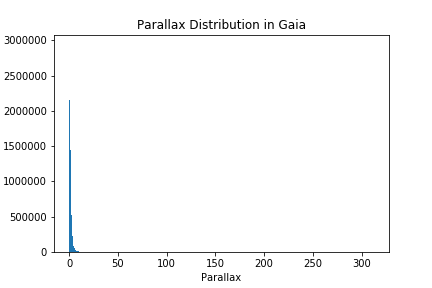
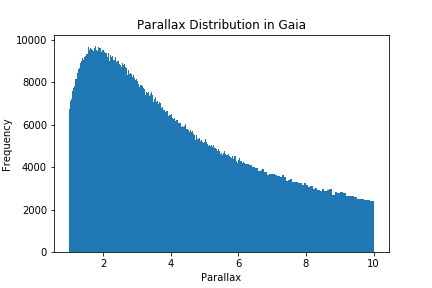
fixed the issue of bins size being one point more than the histogram by plotting the centralized bin point

diff --git a/Code/selection/parallax selection function/parallax selection function.py b/Code/selection/parallax selection function/parallax selection function.py
@@ -6,10 +6,10 @@ from astropy.table import Table
 data_g = Table.read("gaia_data_with_straight_cutoff.fits")
 data_rv = Table.read("gaia_rv_with_straight_cutoff.fits")
 
-# get rid of stars with negative parallax
-mask_g = np.all(np.array([data_g["parallax"]>0, 1/data_g["parallax"]<30]),axis = 0)
+# get rid of stars with negative parallax and stars further than 1 kpc
+mask_g = np.all(np.array([data_g["parallax"]>0, 1/data_g["parallax"]<1]),axis = 0)
 data_g = data_g[mask_g]
-mask_rv = np.all(np.array([data_rv["parallax"]>0, 1/data_rv["parallax"]<30]),axis = 0)
+mask_rv = np.all(np.array([data_rv["parallax"]>0, 1/data_rv["parallax"]<1]),axis = 0)
 data_rv = data_rv[mask_rv]
 
 # get parallax
@@ -17,11 +17,11 @@ parallax_g = data_g["parallax"]
 parallax_rv = data_rv["parallax"]
 
 #set up min and max
-parallax_min = min(np.min(parallax_g), np.min(parallax_rv))
-parallax_max = min(max(np.max(parallax_g), np.max(parallax_rv)),10)
-#set up a list of even bins of 0.01 kpc in distance space, convert to uneven
+parallax_min = 1
+parallax_max = 10
+#set up a list of even bins of 0.001 kpc in distance space, convert to uneven
 #parralax bins
-distance_pixel = 0.01
+distance_pixel = 0.001
 bins = np.flip(1/np.arange(1/parallax_max,1/parallax_min + distance_pixel, distance_pixel), axis =0)
 
 #plot rv paralax distribution
@@ -44,8 +44,15 @@ plt.savefig("Parallax Distribution in Gaia.png")
 
 #plot ratio
 plt.figure()
-bins_adjusted = np.flip(1/np.arange(1/parallax_max,1/parallax_min, distance_pixel), axis =0)
-plt.plot(bins_adjusted, hist_parallax_rv/hist_parallax_g)
+# since bins store the edge of each bin, it has one more point than the
+# histogram. We want the x-array to be the center of each bin.
+# Take every element except the first, subtract every element except the last.
+# This gives an array of one less element representing the difference between
+# each entry. Divide by 2 to find the distance between every two neighboring
+# points. Add this back to every points except the last to get centralized
+# points
+bins_centralized = bins[:-1] + (bins[1:] - bins[:-1])/2
+plt.plot(bins_centralized, hist_parallax_rv/hist_parallax_g)
 plt.xlabel('Parallax')
 plt.ylabel('Ratio (RV/G)')
 plt.title("Ratio of Freqeuncy of Parallax")
